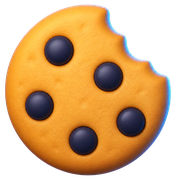
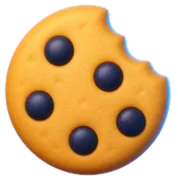
update cookie button and colour form

diff --git a/src/pages/Contact.tsx b/src/pages/Contact.tsx
@@ -320,7 +320,7 @@ export default function Contact() {
               initial={{ opacity: 0, scale: 0.9 }}
               animate={{ opacity: 1, scale: 1 }}
               exit={{ opacity: 0 }}
-              className="glass p-10 rounded-2xl text-center glow-primary"
+              className="contact-form-card glass p-10 rounded-2xl text-center glow-primary"
             >
               <CheckCircle className="w-12 h-12 mx-auto mb-4 text-green-500" />
               <h3 className="text-xl font-semibold mb-text">
@@ -338,6 +338,7 @@ export default function Contact() {
               initial={{ opacity: 0, y: 20 }}
               animate={{ opacity: 1, y: 0 }}
               className="
+                contact-form-card
                 glass
                 p-10
                 rounded-2xl

diff --git a/src/components/ContactSection.tsx b/src/components/ContactSection.tsx
@@ -18,7 +18,7 @@ const CTA_VARIANTS = {
     description:
       "I am currently exploring opportunities across Data Engineering, Data Architecture, Analytics and technical leadership.",
     contactGuidance:
-      "Visit the Contact page or connect with Rodrigo on LinkedIn.",
+      "Visit the Contact page or connect with me on LinkedIn.",
     responseTime: "Messages are normally answered within 48 business hours.",
     primaryLabel: "Start a Conversation",
     showLinkedInLabel: true,

diff --git a/src/index.css b/src/index.css
@@ -342,6 +342,10 @@ body {
     background: #d7ebf1;
   }
 
+  .light .contact-form-card {
+    background: #e4edf9;
+  }
+
   /* Grid pattern */
   .grid-pattern {
     background-image:
